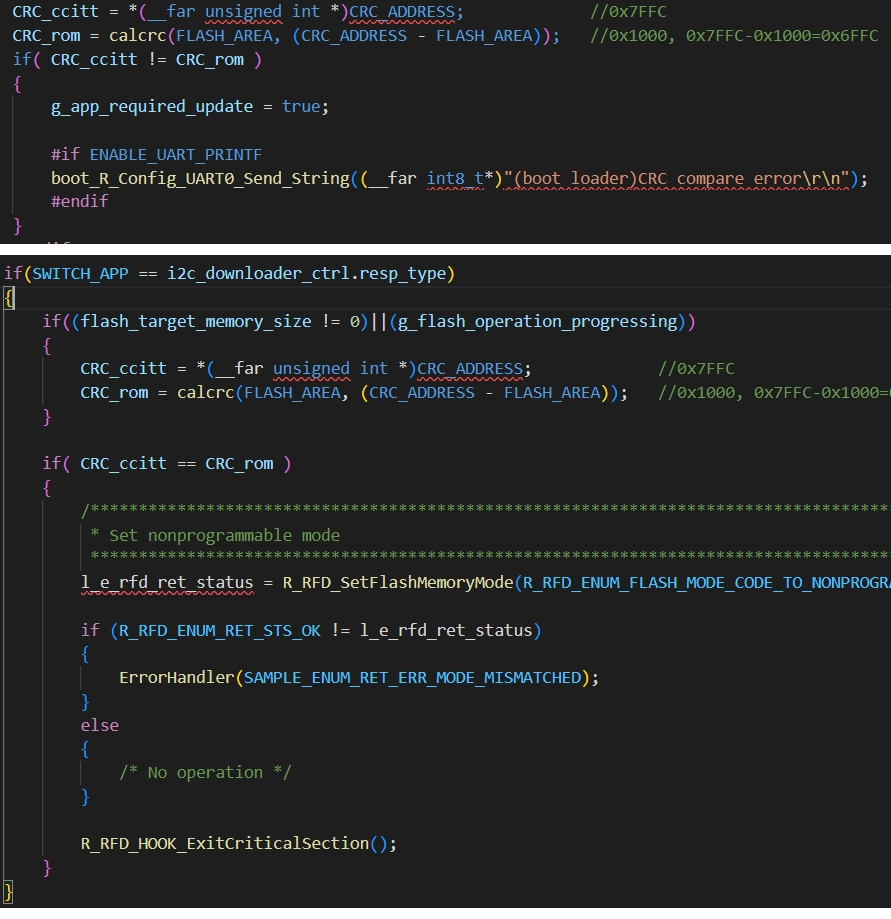
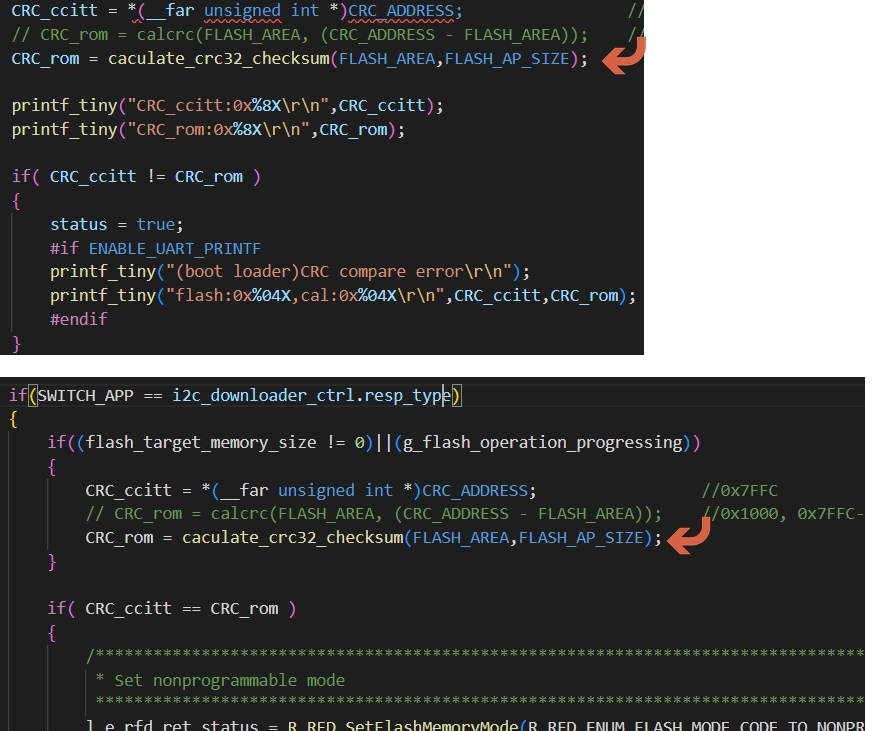
update
update

diff --git a/index.html b/index.html
@@ -115,7 +115,7 @@ document no. : R20UT3475EJ0300<br>
 </li>
 </ul>
 </li>
-<li>at Flash area (app code) last 2 bytes , will add <mark>CRC data</mark> after project compile finish</li>
+<li>at Flash area (app code) last 4 bytes , will add <mark>CRC data</mark> after project compile finish</li>
 </ul>
 <p><img src="img/app_flag_set.jpg" alt=""></p>
 <hr>
@@ -267,7 +267,7 @@ modify hardware init function name (<strong>boot_hdwinit</strong>) <a id="boot_h
 <h1 id="project--boot-code-modifictaion---add-crc-compare-2">Project : boot code modifictaion - add CRC compare (2) </h1>
 <br>
 <span style="color:#FF0000">
-CRC in app code last 4 bytes will be added after compile at <b><u>app code project</u></b> by setting CS+<br><br>
+CRC in app code last 4 bytes will be added after compile at <b><u>app code project</u></b> by use SRecord tool<br><br>
 </span>
 <p><img src="img/app_hex_output_CRC.jpg" alt=""></p>
 <hr>
@@ -912,38 +912,126 @@ volatile uint32_t reset_to_bootloader;
 <ul>
 <li><strong>[Other] &gt; [Commands executed after build processing]</strong>
 <ul>
-<li>add : boot_flash.bat</li>
-<li>use srecord tool ,
+<li>add : boot_flash.bat , for RL78 F24 (256K)</li>
+<li>use srecord tool , do action as below
 <ul>
-<li>create combine boot code/app code hex file : create1_boot_app_hex.cmd</li>
-<li>create combine boot code/app code bin file : create2_boot_app_binary.cmd</li>
-<li>create app code bin file : create3_app_binary.cmd</li>
+<li>save app code hex to back hex file
+<ul>
+<li>1backupHex.cmd</li>
+</ul>
+</li>
+<li>base on app code hex , generate CRC
+<ul>
+<li>2generateChecksum.cmd</li>
+</ul>
+</li>
+<li>base on app code hex (w/ CRC) , generate CRC into hex
+<ul>
+<li>3generateCRCHex.cmd</li>
+</ul>
+</li>
+<li>covert app code hex (w/ CRC) to app code bin
+<ul>
+<li>4generateCRCBin.cmd</li>
+</ul>
+</li>
+<li>base on app code hex (w/ CRC) , to over lap original hex
+<ul>
+<li>5generateCRCHexOverlap.cmd</li>
+</ul>
+</li>
+<li>combine boot code and app code
+<ul>
+<li>6generateBootAppHex.cmd</li>
+</ul>
+</li>
+<li>covert boot/app code hex (w/ CRC) to boot/app code bin
+<ul>
+<li>7generateBootAppBin.cmd</li>
 </ul>
 </li>
 </ul>
 </li>
 </ul>
-<p><strong>create1_boot_app_hex.cmd</strong></p>
+</li>
+</ul>
+<br>
+<p><strong>1backupHex.cmd</strong></p>
+<pre data-role="codeBlock" data-info="" class="language-text"><code># input file
+.\DefaultBuild\flash5000_3FFFF.hex -Intel
+
+-crop 0x005000 0x40000
+
+# produce the output file
+-Output
+.\DefaultBuild\flash5000_3FFFF_backup.hex -Intel
+
+</code></pre><br>
+<p><strong>2generateChecksum.cmd</strong></p>
+<pre data-role="codeBlock" data-info="" class="language-text"><code># input file
+.\DefaultBuild\flash5000_3FFFF.hex -Intel
+
+-crop 0x5000 0x3FFFC
+
+-crc32-l-e 0x3FFFC		
+
+-crop 0x3FFFC 0x40000
+											
+-Output 
+- 
+-HEX_Dump
+
+</code></pre><br>
+<p><strong>3generateCRCHex.cmd</strong></p>
+<pre data-role="codeBlock" data-info="" class="language-text"><code># input file
+.\DefaultBuild\flash5000_3FFFF.hex -Intel
+
+-crop 0x5000 0x3FFFC
+
+-crc32-l-e 0x3FFFC
+
+-Output
+.\DefaultBuild\flash5000_3FFFF_CRC.hex -Intel
+
+</code></pre><br>
+<p><strong>4generateCRCBin.cmd</strong></p>
+<pre data-role="codeBlock" data-info="" class="language-text"><code># input file
+.\DefaultBuild\flash5000_3FFFF_CRC.hex -Intel
+
+-crop 0x005000 0x40000 -offset -0x005000
+
+# produce the output file
+-Output
+.\DefaultBuild\flash5000_3FFFF.bin -binary
+
+</code></pre><br>
+<p><strong>5generateCRCHexOverlap.cmd</strong></p>
+<pre data-role="codeBlock" data-info="" class="language-text"><code># input file
+.\DefaultBuild\flash5000_3FFFF_CRC.hex -Intel
+
+-crop 0x005000 0x40000
+
+# produce the output file
+-Output
+.\DefaultBuild\flash5000_3FFFF.hex -intel
+
+</code></pre><br>
+<p><strong>6generateBootAppHex.cmd</strong></p>
 <pre data-role="codeBlock" data-info="" class="language-text"><code>..\RL78_F24_Boot_loader_UART\DefaultBuild\boot0000_4FFF.hex -Intel .\DefaultBuild\flash5000_3FFFF.hex -Intel -o .\boot_app.hex -Intel -Output_Block_Size=16
-</code></pre><p><strong>create2_boot_app_binary.cmd</strong></p>
+
+</code></pre><br>
+<p><strong>7generateBootAppBin.cmd</strong></p>
 <pre data-role="codeBlock" data-info="" class="language-text"><code># input file
 .\boot_app.hex -Intel
+
+-crop 0x00000 0x40000
 
 # produce the output file
 -Output
 .\boot_app.bin -binary
 
-</code></pre><p><strong>create3_app_binary.cmd</strong></p>
-<pre data-role="codeBlock" data-info="" class="language-text"><code># input file
-.\DefaultBuild\flash5000_3FFFF.hex -Intel
-
--crop 0x005000 0x03FFFF -offset -0x005000
-
-# produce the output file
--Output
-.\flash5000_3FFFF.bin -binary
-
-</code></pre><hr>
+</code></pre><p><img src="img/app_property_common_02_1.jpg" alt=""></p>
+<hr>
 <h1 id="project--app-code-property-modifictaion---cc-rl-build-tool-setting-1">Project : app code property modifictaion - CC-RL Build Tool setting </h1>
 <p><strong>Compile Options</strong></p>
 <p><img src="img/app_property_compile_01.jpg" alt=""></p>
@@ -1058,35 +1146,6 @@ volatile uint32_t reset_to_bootloader;
 <u>CC-RL Compiler User's Manual</u><br>
 <u>CS+ User’s Manual: CC-RL Build Tool Operation</u><br>
 <u>Renesas Flash Driver RL78 Type 02 User’s  Manual</u></p>
-<hr>
-<p><img src="img/app_hex_output_03.jpg" alt=""></p>
-<ul>
-<li><strong>[CRC Operation] &gt; [CRC Operations]</strong>
-<ul>
-<li>CRC calcuation range will be
-<ul>
-<li>START : app code start address
-<ul>
-<li>ex : RL78 F24 will be 0x5000</li>
-</ul>
-</li>
-<li>END : app code end address - 4
-<ul>
-<li>ex : RL78 F24 will be 0x3FFFB</li>
-</ul>
-</li>
-</ul>
-</li>
-<li>CRC calcuation address will be the last 4 bytes
-<ul>
-<li>ex : RL78 F24 will be 0x3FFFC</li>
-</ul>
-</li>
-</ul>
-</li>
-</ul>
-<p><img src="img/app_hex_output_03_1.jpg" alt=""><br>
-<img src="img/app_hex_output_03_2.jpg" alt=""></p>
 <hr>
 
       </div>

diff --git a/index.md b/index.md
@@ -77,7 +77,7 @@ MCU flash will split to Boot area (boot code) and Flash area (app code)
   * change flag data and execute reset , when
     * receive interface boot command (ex : I2C , UART , ...) 
     * any other custom user defined condition (ex : ADC , GPIO etc)
-* at Flash area (app code) last 2 bytes , will add ==CRC data== after project compile finish
+* at Flash area (app code) last 4 bytes , will add ==CRC data== after project compile finish
 
 ![](img/app_flag_set.jpg)
 
@@ -245,7 +245,7 @@ __3.1.2  Modifying hdwinit.asm and stkinit.asm__
 
 <br/>
 <span style="color:#FF0000">
-CRC in app code last 4 bytes will be added after compile at <b><u>app code project</u></b> by setting CS+<br/><br/>
+CRC in app code last 4 bytes will be added after compile at <b><u>app code project</u></b> by use SRecord tool<br/><br/>
 </span>
 
 
@@ -847,21 +847,123 @@ __4.2.3  Specifying hex file output only to the flash area address range__
 ![](img/app_property_common_02.jpg)
 
 * __[Other] > [Commands executed after build processing]__
-  * add : boot_flash.bat
-  * use srecord tool , 
-    * create combine boot code/app code hex file : create1_boot_app_hex.cmd
-    * create combine boot code/app code bin file : create2_boot_app_binary.cmd
-    * create app code bin file : create3_app_binary.cmd
+  * add : boot_flash.bat , for RL78 F24 (256K)
+  * use srecord tool , do action as below
+    * save app code hex to back hex file
+      * 1backupHex.cmd
+    * base on app code hex , generate CRC
+      * 2generateChecksum.cmd
+    * base on app code hex (w/ CRC) , generate CRC into hex
+      * 3generateCRCHex.cmd
+    * covert app code hex (w/ CRC) to app code bin
+      * 4generateCRCBin.cmd
+    * base on app code hex (w/ CRC) , to over lap original hex
+      * 5generateCRCHexOverlap.cmd
+    * combine boot code and app code
+      * 6generateBootAppHex.cmd
+    * covert boot/app code hex (w/ CRC) to boot/app code bin
+      * 7generateBootAppBin.cmd
 
-__create1_boot_app_hex.cmd__
-```
-..\RL78_F24_Boot_loader_UART\DefaultBuild\boot0000_4FFF.hex -Intel .\DefaultBuild\flash5000_3FFFF.hex -Intel -o .\boot_app.hex -Intel -Output_Block_Size=16
-```
+<br>
 
-__create2_boot_app_binary.cmd__
+__1backupHex.cmd__
 ```
 # input file
+.\DefaultBuild\flash5000_3FFFF.hex -Intel
+
+-crop 0x005000 0x40000
+
+# produce the output file
+-Output
+.\DefaultBuild\flash5000_3FFFF_backup.hex -Intel
+
+```
+
+<br>
+
+__2generateChecksum.cmd__
+```
+# input file
+.\DefaultBuild\flash5000_3FFFF.hex -Intel
+
+-crop 0x5000 0x3FFFC
+
+-crc32-l-e 0x3FFFC		
+
+-crop 0x3FFFC 0x40000
+											
+-Output 
+- 
+-HEX_Dump
+
+```
+
+<br>
+
+__3generateCRCHex.cmd__
+```
+
+# input file
+.\DefaultBuild\flash5000_3FFFF.hex -Intel
+
+-crop 0x5000 0x3FFFC
+
+-crc32-l-e 0x3FFFC
+
+-Output
+.\DefaultBuild\flash5000_3FFFF_CRC.hex -Intel
+
+```
+
+<br>
+
+__4generateCRCBin.cmd__
+```
+
+# input file
+.\DefaultBuild\flash5000_3FFFF_CRC.hex -Intel
+
+-crop 0x005000 0x40000 -offset -0x005000
+
+# produce the output file
+-Output
+.\DefaultBuild\flash5000_3FFFF.bin -binary
+
+```
+
+<br>
+
+__5generateCRCHexOverlap.cmd__
+```
+
+# input file
+.\DefaultBuild\flash5000_3FFFF_CRC.hex -Intel
+
+-crop 0x005000 0x40000
+
+# produce the output file
+-Output
+.\DefaultBuild\flash5000_3FFFF.hex -intel
+
+```
+
+<br>
+
+__6generateBootAppHex.cmd__
+```
+..\RL78_F24_Boot_loader_UART\DefaultBuild\boot0000_4FFF.hex -Intel .\DefaultBuild\flash5000_3FFFF.hex -Intel -o .\boot_app.hex -Intel -Output_Block_Size=16
+
+```
+
+<br>
+
+__7generateBootAppBin.cmd__
+```
+
+# input file
 .\boot_app.hex -Intel
+
+-crop 0x00000 0x40000
 
 # produce the output file
 -Output
@@ -869,18 +971,7 @@ __create2_boot_app_binary.cmd__
 
 ```
 
-__create3_app_binary.cmd__
-```
-# input file
-.\DefaultBuild\flash5000_3FFFF.hex -Intel
-
--crop 0x005000 0x03FFFF -offset -0x005000
-
-# produce the output file
--Output
-.\flash5000_3FFFF.bin -binary
-
-```
+![](img/app_property_common_02_1.jpg)
 
 ---
 
@@ -991,24 +1082,4 @@ __4.2.3  Specifying hex file output only to the flash area address range__
 <u>Renesas Flash Driver RL78 Type 02 User’s  Manual</u>
 
 ---
-
-
-![](img/app_hex_output_03.jpg)
-
-* __[CRC Operation] > [CRC Operations]__  
-  * CRC calcuation range will be 
-    * START : app code start address 
-      * ex : RL78 F24 will be 0x5000
-    * END : app code end address - 4 
-      * ex : RL78 F24 will be 0x3FFFB
-  * CRC calcuation address will be the last 4 bytes 
-    * ex : RL78 F24 will be 0x3FFFC
-
-
-![](img/app_hex_output_03_1.jpg)
-![](img/app_hex_output_03_2.jpg)
-
----
-
-
 
